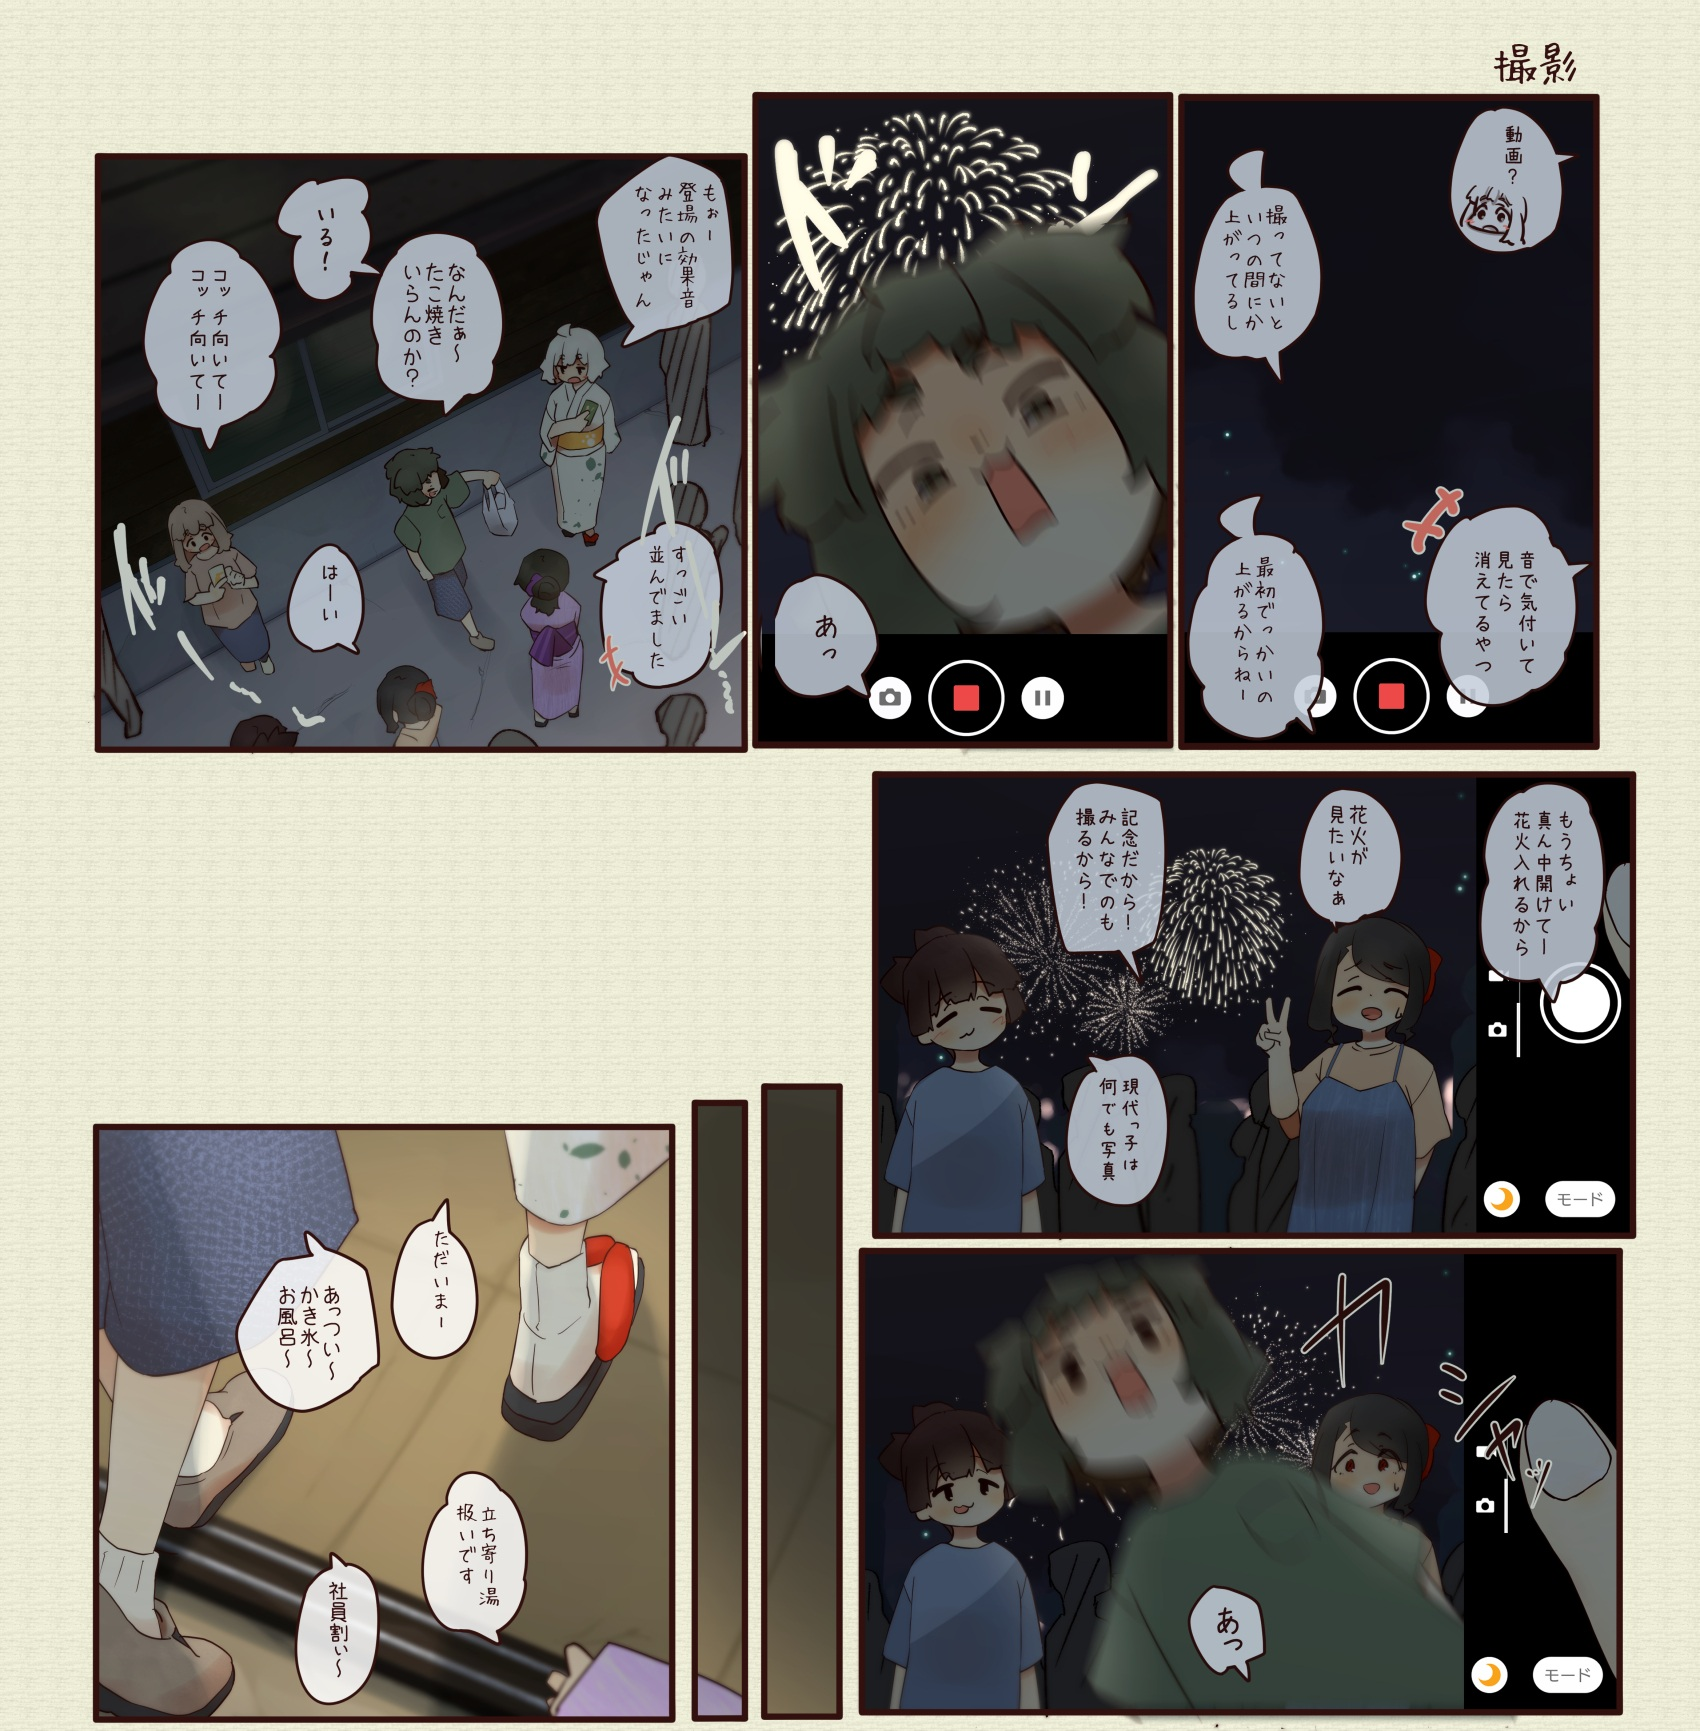
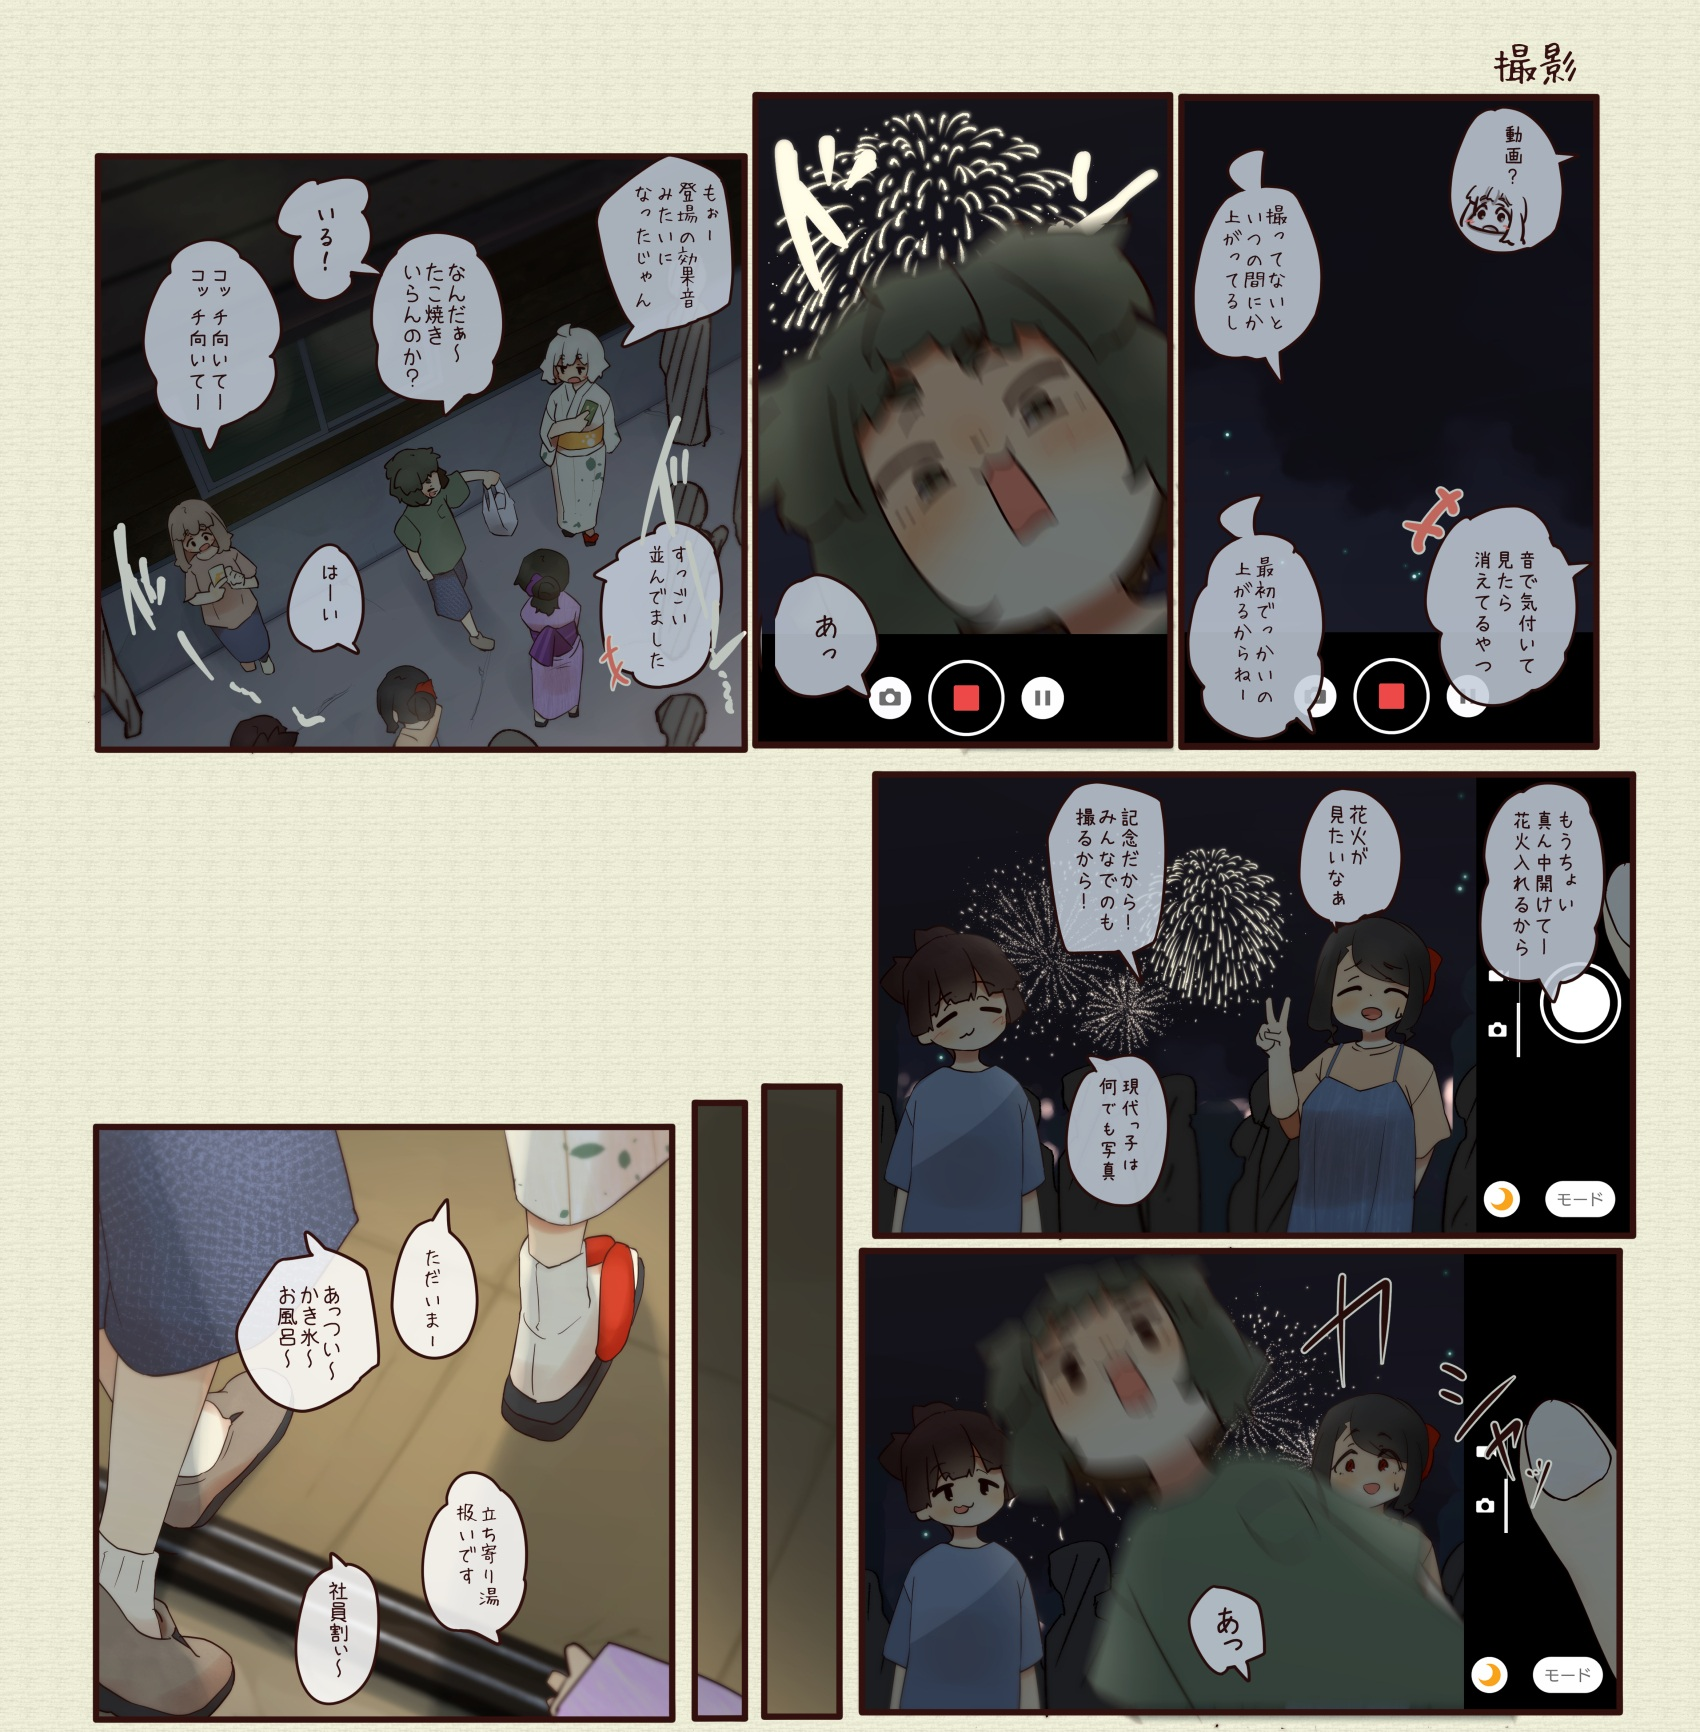
mops: find new update.

diff --git a/4komaData.js b/4komaData.js
@@ -3655,6 +3655,7 @@ pageData =
     "Title": "撮影",
     "ImagesUrl": [
       "https://mo4koma.iranika.info/4koma/ja/399-1.jpg",
+      "https://mo4koma.iranika.info/4koma/ja/399-2.jpg",
       "https://mo4koma.iranika.info/4koma/ja/sp.jpg"
     ],
     "Index": 399

diff --git a/4komaDataMin.js b/4komaDataMin.js
@@ -3655,6 +3655,7 @@ pageData =
     "Title": "撮影",
     "ImagesUrl": [
       "/399-1.jpg",
+      "/399-2.jpg",
       "/sp.jpg"
     ],
     "Index": 399
